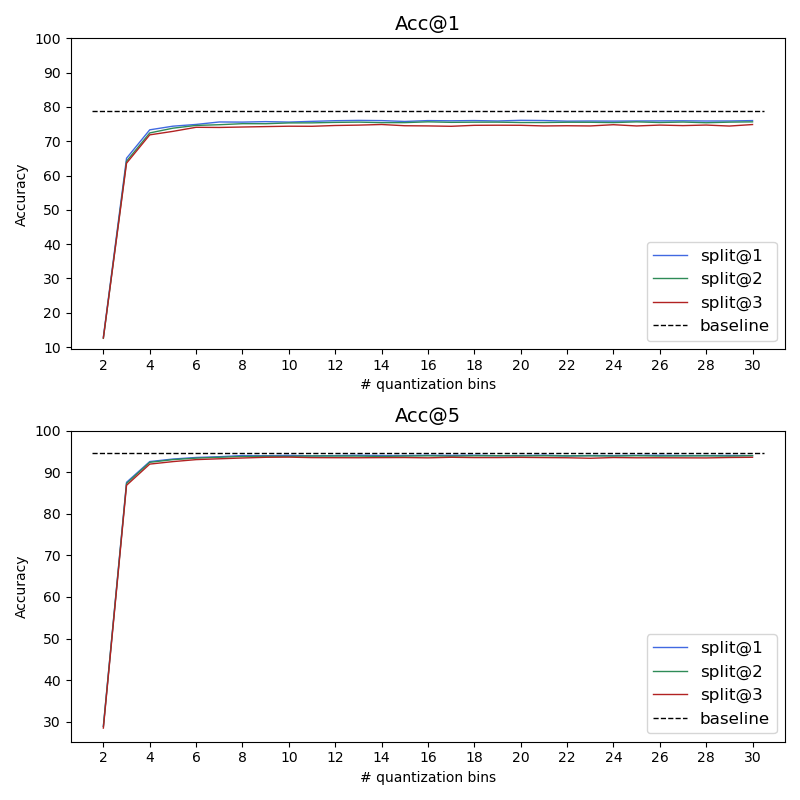
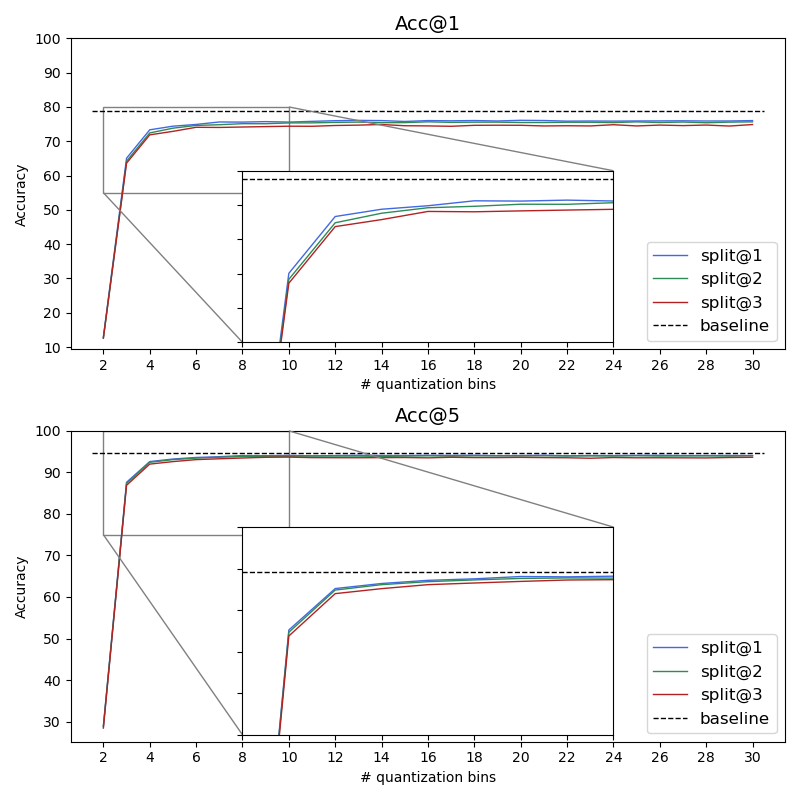
Final commit, diploma done

diff --git a/results.py b/results.py
@@ -6,6 +6,9 @@ from ptflops import get_model_complexity_info
 from newresnet import resnet101_blockn_split
 import sys
 
+from mpl_toolkits.axes_grid1.inset_locator import zoomed_inset_axes
+from mpl_toolkits.axes_grid1.inset_locator import mark_inset
+
 
 _BASELINE_ACC1_CIFAR100 = 78.820
 _BASELINE_ACC5_CIFAR100 = 94.560
@@ -207,6 +210,30 @@ if __name__ == "__main__":
     ax[1].set_ylim(top=100)
     ax[1].set_title("Acc@5", fontsize=14)
 
+    axins = zoomed_inset_axes(ax[0], 2, loc=8)  # zoom = 2
+    axins.plot(_QBINS, a1s_s1_noise_cif, color='royalblue', linewidth='1', label='split@1')
+    axins.plot(_QBINS, a1s_s2_noise_cif, color='seagreen', linewidth='1', label='split@2')
+    axins.plot(_QBINS, a1s_s3_noise_cif, color='firebrick', linewidth='1', label='split@3')
+    axins.axhline(y=_BASELINE_ACC1_CIFAR100, color='k', linestyle='--', linewidth='1',
+                  label='baseline')
+    axins.set_xlim(2, 10)
+    axins.set_ylim(55, 80)
+    axins.set_xticklabels([])
+    axins.set_yticklabels([])
+    mark_inset(ax[0], axins, loc1=3, loc2=1, fc="none", ec="0.5")
+
+    axins = zoomed_inset_axes(ax[1], 2, loc=8)  # zoom = 2
+    axins.plot(_QBINS, a5s_s1_noise_cif, color='royalblue', linewidth='1', label='split@1')
+    axins.plot(_QBINS, a5s_s2_noise_cif, color='seagreen', linewidth='1', label='split@2')
+    axins.plot(_QBINS, a5s_s3_noise_cif, color='firebrick', linewidth='1', label='split@3')
+    axins.axhline(y=_BASELINE_ACC5_CIFAR100, color='k', linestyle='--', linewidth='1',
+                  label='baseline')
+    axins.set_xlim(2, 10)
+    axins.set_ylim(75, 100)
+    axins.set_xticklabels([])
+    axins.set_yticklabels([])
+    mark_inset(ax[1], axins, loc1=3, loc2=1, fc="none", ec="0.5")
+
     plt.tight_layout()
     plt.savefig("results/graphs/cif100_w_noise")
     plt.show()
@@ -248,6 +275,30 @@ if __name__ == "__main__":
 
     ax[1].set_ylim(top=100)
     ax[1].set_title("Acc@5", fontsize=14)
+
+    axins = zoomed_inset_axes(ax[0], 2, loc=8)  # zoom = 2
+    axins.plot(_QBINS, a1s_s1_nonoise_cif, color='royalblue', linewidth='1', label='split@1')
+    axins.plot(_QBINS, a1s_s2_nonoise_cif, color='seagreen', linewidth='1', label='split@2')
+    axins.plot(_QBINS, a1s_s3_nonoise_cif, color='firebrick', linewidth='1', label='split@3')
+    axins.axhline(y=_BASELINE_ACC1_CIFAR100, color='k', linestyle='--', linewidth='1',
+                  label='baseline')
+    axins.set_xlim(2, 10)
+    axins.set_ylim(55, 80)
+    axins.set_xticklabels([])
+    axins.set_yticklabels([])
+    mark_inset(ax[0], axins, loc1=3, loc2=1, fc="none", ec="0.5")
+
+    axins = zoomed_inset_axes(ax[1], 2, loc=8)  # zoom = 2
+    axins.plot(_QBINS, a5s_s1_nonoise_cif, color='royalblue', linewidth='1', label='split@1')
+    axins.plot(_QBINS, a5s_s2_nonoise_cif, color='seagreen', linewidth='1', label='split@2')
+    axins.plot(_QBINS, a5s_s3_nonoise_cif, color='firebrick', linewidth='1', label='split@3')
+    axins.axhline(y=_BASELINE_ACC5_CIFAR100, color='k', linestyle='--', linewidth='1',
+                  label='baseline')
+    axins.set_xlim(2, 10)
+    axins.set_ylim(75, 100)
+    axins.set_xticklabels([])
+    axins.set_yticklabels([])
+    mark_inset(ax[1], axins, loc1=3, loc2=1, fc="none", ec="0.5")
 
     plt.tight_layout()
     plt.savefig("results/graphs/cif100_wo_noise")
@@ -291,6 +342,30 @@ if __name__ == "__main__":
     ax[1].set_ylim(top=100)
     ax[1].set_title("Acc@5", fontsize=14)
 
+    axins = zoomed_inset_axes(ax[0], 2, loc=8)  # zoom = 2
+    axins.plot(_QBINS, a1s_s1_noise_imgnette, color='royalblue', linewidth='1', label='split@1')
+    axins.plot(_QBINS, a1s_s2_noise_imgnette, color='seagreen', linewidth='1', label='split@2')
+    axins.plot(_QBINS, a1s_s3_noise_imgnette, color='firebrick', linewidth='1', label='split@3')
+    axins.axhline(y=_BASELINE_ACC1_IMAGENETTE, color='k', linestyle='--', linewidth='1',
+                  label='baseline')
+    axins.set_xlim(2, 10)
+    axins.set_ylim(60, 95)
+    axins.set_xticklabels([])
+    axins.set_yticklabels([])
+    mark_inset(ax[0], axins, loc1=3, loc2=1, fc="none", ec="0.5")
+
+    axins = zoomed_inset_axes(ax[1], 2, loc=8)  # zoom = 2
+    axins.plot(_QBINS, a5s_s1_noise_imgnette, color='royalblue', linewidth='1', label='split@1')
+    axins.plot(_QBINS, a5s_s2_noise_imgnette, color='seagreen', linewidth='1', label='split@2')
+    axins.plot(_QBINS, a5s_s3_noise_imgnette, color='firebrick', linewidth='1', label='split@3')
+    axins.axhline(y=_BASELINE_ACC5_IMAGENETTE, color='k', linestyle='--', linewidth='1',
+                  label='baseline')
+    axins.set_xlim(2, 10)
+    axins.set_ylim(80, 100)
+    axins.set_xticklabels([])
+    axins.set_yticklabels([])
+    mark_inset(ax[1], axins, loc1=3, loc2=1, fc="none", ec="0.5")
+
     plt.tight_layout()
     plt.savefig("results/graphs/imgnette_w_noise")
     plt.show()
@@ -331,6 +406,30 @@ if __name__ == "__main__":
 
     ax[1].set_ylim(top=100)
     ax[1].set_title("Acc@5", fontsize=14)
+
+    axins = zoomed_inset_axes(ax[0], 2, loc=8)  # zoom = 2
+    axins.plot(_QBINS, a1s_s1_nonoise_imgnette, color='royalblue', linewidth='1', label='split@1')
+    axins.plot(_QBINS, a1s_s2_nonoise_imgnette, color='seagreen', linewidth='1', label='split@2')
+    axins.plot(_QBINS, a1s_s3_nonoise_imgnette, color='firebrick', linewidth='1', label='split@3')
+    axins.axhline(y=_BASELINE_ACC1_IMAGENETTE, color='k', linestyle='--', linewidth='1',
+                  label='baseline')
+    axins.set_xlim(2, 10)
+    axins.set_ylim(60, 95)
+    axins.set_xticklabels([])
+    axins.set_yticklabels([])
+    mark_inset(ax[0], axins, loc1=3, loc2=1, fc="none", ec="0.5")
+
+    axins = zoomed_inset_axes(ax[1], 2, loc=8)  # zoom = 2
+    axins.plot(_QBINS, a5s_s1_nonoise_imgnette, color='royalblue', linewidth='1', label='split@1')
+    axins.plot(_QBINS, a5s_s2_nonoise_imgnette, color='seagreen', linewidth='1', label='split@2')
+    axins.plot(_QBINS, a5s_s3_nonoise_imgnette, color='firebrick', linewidth='1', label='split@3')
+    axins.axhline(y=_BASELINE_ACC5_IMAGENETTE, color='k', linestyle='--', linewidth='1',
+               label='baseline')
+    axins.set_xlim(2, 10)
+    axins.set_ylim(80, 100)
+    axins.set_xticklabels([])
+    axins.set_yticklabels([])
+    mark_inset(ax[1], axins, loc1=3, loc2=1, fc="none", ec="0.5")
 
     plt.tight_layout()
     plt.savefig("results/graphs/imgnette_wo_noise")
@@ -454,6 +553,28 @@ if __name__ == "__main__":
     ax[1].set_ylim(top=100)
     ax[1].set_title("Acc@5", fontsize=14)
 
+    axins = zoomed_inset_axes(ax[0], 2, loc=8)  # zoom = 2
+    axins.plot(_QBINS, a1s_s1_nonoise_imgnette, color='royalblue', linewidth='1', label='split@1')
+    axins.plot(_QBINS, a1s_s1_noise_imgnette, color='seagreen', linewidth='1', label='split@2')
+    axins.axhline(y=_BASELINE_ACC1_IMAGENETTE, color='k', linestyle='--', linewidth='1',
+                  label='baseline')
+    axins.set_xlim(2, 10)
+    axins.set_ylim(60, 95)
+    axins.set_xticklabels([])
+    axins.set_yticklabels([])
+    mark_inset(ax[0], axins, loc1=3, loc2=1, fc="none", ec="0.5")
+
+    axins = zoomed_inset_axes(ax[1], 2, loc=8)  # zoom = 2
+    axins.plot(_QBINS, a5s_s1_nonoise_imgnette, color='royalblue', linewidth='1', label='split@1')
+    axins.plot(_QBINS, a5s_s1_noise_imgnette, color='seagreen', linewidth='1', label='split@2')
+    axins.axhline(y=_BASELINE_ACC5_IMAGENETTE, color='k', linestyle='--', linewidth='1',
+                  label='baseline')
+    axins.set_xlim(2, 10)
+    axins.set_ylim(80, 100)
+    axins.set_xticklabels([])
+    axins.set_yticklabels([])
+    mark_inset(ax[1], axins, loc1=3, loc2=1, fc="none", ec="0.5")
+
     plt.tight_layout()
     plt.savefig("results/graphs/noise_vs_nonoise_imgnette")
     plt.show()
@@ -493,6 +614,28 @@ if __name__ == "__main__":
 
     ax[1].set_ylim(top=100)
     ax[1].set_title("Acc@5", fontsize=14)
+
+    axins = zoomed_inset_axes(ax[0], 2, loc=8)  # zoom = 2
+    axins.plot(_QBINS, a1s_s1_nonoise_cif, color='royalblue', linewidth='1', label='split@1')
+    axins.plot(_QBINS, a1s_s1_noise_cif, color='seagreen', linewidth='1', label='split@2')
+    axins.axhline(y=_BASELINE_ACC1_CIFAR100, color='k', linestyle='--', linewidth='1',
+                  label='baseline')
+    axins.set_xlim(2, 10)
+    axins.set_ylim(55, 80)
+    axins.set_xticklabels([])
+    axins.set_yticklabels([])
+    mark_inset(ax[0], axins, loc1=3, loc2=1, fc="none", ec="0.5")
+
+    axins = zoomed_inset_axes(ax[1], 2, loc=8)  # zoom = 2
+    axins.plot(_QBINS, a5s_s1_nonoise_cif, color='royalblue', linewidth='1', label='split@1')
+    axins.plot(_QBINS, a5s_s1_noise_cif, color='seagreen', linewidth='1', label='split@2')
+    axins.axhline(y=_BASELINE_ACC5_CIFAR100, color='k', linestyle='--', linewidth='1',
+                  label='baseline')
+    axins.set_xlim(2, 10)
+    axins.set_ylim(75, 100)
+    axins.set_xticklabels([])
+    axins.set_yticklabels([])
+    mark_inset(ax[1], axins, loc1=3, loc2=1, fc="none", ec="0.5")
 
     plt.tight_layout()
     plt.savefig("results/graphs/noise_vs_nonoise_cif100")

diff --git a/pipeline.py b/pipeline.py
@@ -3,7 +3,11 @@ import torch
 import argparse
 import torchvision
 import time
+import cv2
+import numpy as np
+import zlib
 
+import scaling
 from companding import Compander
 from quantization import Quantizer
 from quantresnet import QuantResNet
@@ -105,7 +109,7 @@ if __name__ == "__main__":
             print("=> Loaded checkpoint '{}' (epoch {})"
                   .format(args.load, checkpoint['epoch']))
         else:
-            print("=> No checkpoint found at '{}'...".format(args.resume))
+            print("=> No checkpoint found at '{}'...".format(args.load))
 
 
     # Start pipline
@@ -136,10 +140,24 @@ if __name__ == "__main__":
         with torch.no_grad():
 
             # Process input with first part of ResNet
-
-            outputs = qnet.analysis(inputs)
+            # outputs = qnet.analysis(inputs)
             # Encode with arithmetic codin
-            coder.encode(outputs)
+
+            # outputs = outputs.cpu().detach().numpy()
+            # shp = outputs.shape
+            # outputs = zlib.compress(outputs)
+
+            #coder.encode(outputs)
+
+            s = scaling.Scaler()
+            outputs = s.scale(inputs, (0, 255))
+            outputs = outputs.cpu().detach().numpy()
+            outputs = np.squeeze(outputs, axis=0)
+            outputs = np.moveaxis(outputs, 0, -1)
+            cv2.imwrite("out.jpeg", outputs, [cv2.IMWRITE_JPEG_QUALITY, 90])
+            outputs = cv2.imread("out.jpeg")
+            _, outputs = cv2.imencode(".jpeg", outputs, [cv2.IMWRITE_JPEG_QUALITY, 90])
+
 
             # show before and after image
             if show_flag:
@@ -150,12 +168,26 @@ if __name__ == "__main__":
                     show_flag = False
 
             # measure bpp and cr
-            _bpp = bpp(bitsize(coder.outputfile), res) / inputs.size(0)
+            # _bpp = bpp(bitsize(coder.outputfile), res) / inputs.size(0)
+            _bpp = bpp(bitsize(outputs), res) / inputs.size(0)
             cr = CR(_bpp)
 
             # Decode compressed file
-            outputs = coder.decode()
+            # outputs = zlib.decompress(outputs)
+            # outputs = np.frombuffer(outputs, dtype=np.uint8)
+            # outputs = outputs.reshape(shp)
+            # outputs = torch.from_numpy(outputs).to(device)
+
+            #outputs = coder.decode()
+
+            outputs = cv2.imdecode(outputs, cv2.IMREAD_COLOR).astype(np.float32)
+            outputs = np.moveaxis(outputs, -1, 0)
+            outputs = np.expand_dims(outputs, axis=0)
+            outputs = torch.from_numpy(outputs).to(device)
+            outputs = s.unscale(outputs)
+
             # Process decoded tensor with second half of ResNet
+            outputs = qnet.analysis(outputs)
             outputs = qnet.synthesis(outputs)
 
             # measure accuracy

diff --git a/metrics.py b/metrics.py
@@ -2,6 +2,7 @@ import os.path
 from typing import Tuple
 import torch
 from torch import Tensor
+import numpy as np
 
 def accuracy(output, target, topk=(1,)):
     """
@@ -34,6 +35,12 @@ def bytesize(inp: Tensor | str):
 
     if isinstance(inp, Tensor):
         return inp.element_size() * inp.nelement()
+
+    if isinstance(inp, bytes):
+        return len(inp)
+
+    if isinstance(inp, np.ndarray):
+        return inp.nbytes
 
     if isinstance(inp, str):
         if os.path.exists(inp):
